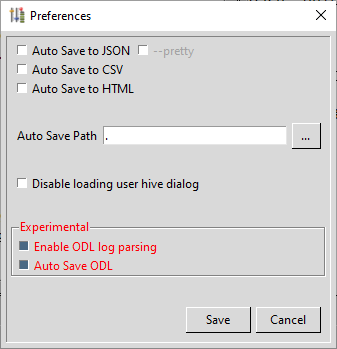
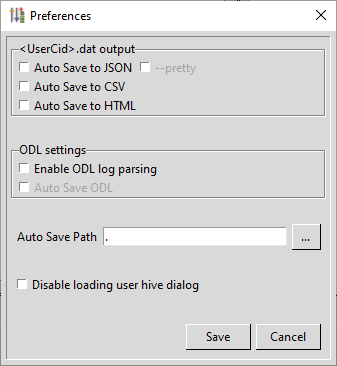
Add files via upload

diff --git a/Docs/OneDriveExplorerManual.md b/Docs/OneDriveExplorerManual.md
@@ -1,9 +1,10 @@
-# OneDriveExplorer GUI
+# OneDriveExplorer
 
 ![](.\manual\ode.png)
 
 Revision history  
-date Rev. 1 - Initial Release
+2022-11-08 Rev. 1 - Initial Release  
+2022-12-07 Rev. 2 - Updated for v2022.12.08
 
 ## OneDriveExplorer GUI Introduction
 OneDriveExplorer GUI is used to view the contents of \<UserCid>.dat files. It can load multiple settings, logs, and $Recycle.bin files at once. Search across all settings files, view OneDrive logs and much more.
@@ -63,7 +64,7 @@ The Options menu contains items for the look and feel and preferences of OneDriv
 
 ![](.\manual\options_menu.png)
 
-* Font: Change the font type, style and size. Applies to the Details, Log entries, and Log tabs.
+* Font: Change the font type, style, and size. Applies to the Details, Log entries, and Log tabs.
 * Skins: Change the overall look of OneDriveExplorer.
 * Preferences: Program options such as auto save, disabling the user hive dialog, and ODL settings.  
 
@@ -72,8 +73,11 @@ The Preferences dialog allows you to change various OneDriveExplorer settings as
 ![](.\manual\preferences.png)
 
 #### View
-The View menu contains one option, Messages.
+The View menu contains two options: Messages and CStructs.
 
+![](.\manual\view.png)
+
+##### Messages
 Messages toggles the visibility of the Messages window. The messages window displays status messages on the parsing process. The total number of messages is also shown on the main window's bottom status bar to the far right. Double clicking the message count will also show the Messages window.
 
 ![](.\manual\messages.png)
@@ -82,6 +86,9 @@ As mentioned above, the background of the messages count will be yellow if a war
 The Messages window contains two options. One for clearing the messages and the other to export the messages. Exporting the messages can be useful for troubleshooting the application.
 
 ![](.\manual\messages_number.png)
+
+##### CStructs
+The CStructs option displays a list of available cstructs for a given code file. Details include author, functions, and description. CStructs will be discussed in more detail in a dedicated section of this manual.
 
 #### Help
 The help menu contains two options: Quick help and About.
@@ -122,7 +129,15 @@ Import CSV allows for loading a previously saved CSV file from the command line 
 
 #### OneDrive logs
 *Note: This option is only available if enabled in the Preferences dialog.  
-Use this option to load OneDrive log files. The default location is *%USERPROFILE%\\%AppData%\Local\Microsoft\OneDrive\logs\\<Personal\Business>*. If the *ObfuscationStringMap.txt* file is found, it will be used to automatically deobfuscate the logs. There is another form of obfuscation that uses *general.keystor* but this has not been implemented yet. OneDrive logs will be discussed later.
+OneDrive logs contains two options for loading ODL data: Load ODL logs and Import csv. OneDrive logs will be discussed later. 
+
+![](.\manual\odlogs.png)
+
+##### Load ODL logs
+Use this option to load OneDrive log files. The default location is *%USERPROFILE%\\%AppData%\Local\Microsoft\OneDrive\logs\\<Personal\Business>*. If the *ObfuscationStringMap.txt* or *general.keystor* file is found, it will be used to automatically deobfuscate the logs.
+
+##### Import CSV
+Import CSV allows for loading a previously saved CSV file from the command line or GUI application.
 
 #### Projects
 Projects allow you to load one or more \<UserCid>.dat and log files; save the currently loaded \<UserCid>.dat and log files. This allows for quickly loading the same \<UserCid>.dat and log files for a particular case versus loading the files individually. Projects are saved with a *.ode_proj* extension.
@@ -172,54 +187,277 @@ From the OneDrive Folders tab, selecting a file/folder will populate the Log Ent
 
 ![](.\manual\logs2.png)
 
+### CStructs
+cstruct files provide a means to better parse ODL entries. The parameters of ODL entries consist of structured binary data and are parsed with a regex looking for ascii characters. cstruct files give us a means to define the structured data and extract it accordingly.
+
+CStructs live under the main OneDriveExplorer directory in a subdirectory called 'cstructs'. If you would like to load cstruct files from a different directory, use the --cstructs switch when starting OneDriveExplorer
+
+> OneDriveExplorer.exe --cstructs <folder_path>
+
+When OneDriveExplorer is started, it looks for all files matching that pattern in the cstructs folder. It then verifies that each file found is a valid cstruct file. IF it is, the cstruct is made available to OneDriveExplorer.
+
+To view all available cstructs, use the View | CStructs menu option. When this is selected the following dialog is displayed:
+
+![](.\manual\cstructs.png)
+
+To get additional details about the cstruct, click the Add'l Info button. The following dialog will be displayed:
+
+![](.\manual\add_info.png)
+
 # OneDriveExplorer
 ## OneDriveExplorer Introduction
 OneDriveExplorer is a tool used to parse \<UserCid\>.dat files and reconstruct the folder structure of OneDrive. \<UserCid\>.dat files are commonly found at %USERPROFILE%\\%AppData%\Local\Microsoft\OneDrive\settings\\<Personal\Business>
 
-## OneDriveExplorer Switches
+## Getting started
 
-In a command prompt, running OneDriveExplorer.exe will provide the following options:
+Running OneDriveExplorer.exe without any arguments displays a list of command line options:
 
 ```
 usage: OneDriveExplorer.py [-h] [-f FILE] [-d DIR] [-r REGHIVE] [-rb RECYCLE_BIN] [--csv CSV] [--csvf CSVF]
-                           [--html HTML] [--json JSON] [--pretty] [--debug] [-l [LOGS]]
+                           [--html HTML] [--json JSON] [--pretty] [--cstructs CSTRUCTS] [--debug] [-l [LOGS]]
 
-options:  
-  -h, --help            show this help message and exit  
-  -f FILE, --file FILE  <UserCid>.dat file to be parsed  
-  -d DIR, --dir DIR     Directory to recursively process, looking for <UserCid>.dat, NTUSER hive, $Recycle.Bin, and  
-                        ODL logs. This mode is primarily used with KAPE.  
-  -r REGHIVE, --REG_HIVE REGHIVE  
-                        If a registry hive is provided, then the mount points of the SyncEngines will be resolved.  
-  -rb RECYCLE_BIN, --RECYCLE_BIN RECYCLE_BIN  
-                        $Recycle.Bin  
-  --csv CSV             Directory to save CSV formatted results to. Be sure to include the full path in double quotes.  
-  --csvf CSVF           File name to save CSV formatted results to. When present, overrides default name.  
-  --html HTML           Directory to save html formatted results to. Be sure to include the full path in double  
-                        quotes.  
-  --json JSON           Directory to save json representation to. Use --pretty for a more human readable layout.  
-  --pretty              When exporting to json, use a more human readable layout. Default is FALSE  
-  --debug               Show debug information during processing.  
-  -l [LOGS], --logs [LOGS]  
-                        Directory to recursively process for ODL logs. Experimental.  
+options:
+  -h, --help            show this help message and exit
+  -f FILE, --file  <UserCid>.dat file to be parsed
+  -d DIR, --dir DIR     Directory to recursively process, looking for <UserCid>.dat, NTUSER hive, $Recycle.Bin, and
+                        ODL logs. This mode is primarily used with KAPE.
+  -r REGHIVE, --REG_HIVE REGHIVE
+                        If a registry hive is provided, then the mount points of the SyncEngines will be resolved.
+  -rb RECYCLE_BIN, --RECYCLE_BIN RECYCLE_BIN
+                        $Recycle.Bin
+  --csv CSV             Directory to save CSV formatted results to. Be sure to include the full path in double quotes.
+  --csvf CSVF           File name to save CSV formatted results to. When present, overrides default name.
+  --html HTML           Directory to save html formatted results to. Be sure to include the full path in double
+                        quotes.
+  --json JSON           Directory to save json representation to. Use --pretty for a more human readable layout.
+  --pretty              When exporting to json, use a more human readable layout. Default is FALSE
+  --cstructs CSTRUCTS   The path where ODL cstructs are located. Defaults to 'cstructs' folder where program was
+                        executed.
+  --debug               Show debug information during processing.
+  -l [LOGS], --logs [LOGS]
+                        Directory to recursively process for ODL logs.  
   ```
   
-### Switch Descriptions
+There are several groups of command line options for OneDriveExplorer.
+
+### Source
   
-**-r**  
-This switch will instruct OneDriveExplorer to use the registry hive supplied to resolve OneDrive mount points.  
-Example: 
->OneDriveExplorer.exe -f \<file> -r NTUSER.dat  
+* **-f**: Full path, including \<UserCid>.dat, of \<UserCid>.dat file to be parse
 
-**-rb**  
-This switch will instruct OneDriveExplorer to use the $Recycle.Bin supplied to look for deleted files. This switch can only be used when a registry hive is supplied.  
-Example:
->OneDriveExplorer.exe -f \<file> -r NTUSER.dat -rb c:\\$Recycle.Bin
+* **-d**: Directory to recursively process, looking for <UserCid>.dat, NTUSER hive, $Recycle.Bin, and ODL logs. This mode is primarily used with KAPE.
 
-## OneDriveExplorer Command Examples
-### Example OneDriveExplorer Commands
+* **-r**: This switch will instruct OneDriveExplorer to use the registry hive supplied to resolve OneDrive mount points.  
+ 
+* **-rb**: This switch will instruct OneDriveExplorer to use the $Recycle.Bin supplied to look for deleted files. This switch can only be used when a registry hive is supplied.  
 
-## OneDriveExplorer Output
-### Analyzing OneDriveExplorer Output - CSV
+* **-l**: Directory to recursively process for ODL logs.
 
-# OneDriveExplorer cstruct "mapping" files
+### Output
+
+* **--csv**: Directory to save CSV formatted results to. Be sure to include the full path in double quotes.
+
+* **--csvf**: File name to save CSV formatted results to. When present, overrides default name
+
+* **--html**: Directory to save html formatted results to. Be sure to include the full path in double quotes.
+
+* **--json**: Directory to save json representation to. Use --pretty for a more human readable layout.
+
+* **--pretty**: When exporting to json, use a more human readable layout. Default is FALSE
+
+### Other
+
+* **--cstructs**: The path where ODL cstructs are located. Defaults to 'cstructs' folder where program was executed.
+
+* **--debug**: Show debug information during processing.
+
+### Usage
+To use OneDriveExplorer, simply provide the `.\<UserCid>.dat` file to the `-f` argument
+
+```bash
+OneDriveExplorer.py -f business1\d1a7c039-6175-4ddb-bcdb-a8de45cf1678.dat
+```
+
+Depending on the options, OneDriveExplorer can produce JSON, CSV, or HTML files of the parsed data. The `--pretty` option can be used to output the JSON into a more human readable layout.
+
+A user registry hive can be supplied with the `-r` argument. This will resolve some of the mount points associated with OneDrive. Along with the registry hive, $Recycle.Bin can be added with the `-rb` option to look for deleted files.
+
+# Creating CStructs
+
+# Version changes
+## v2022.12.08
+### Added
+#### commandline/GUI
+* Account for all business accounts (can be up to 9 total)
+* Add switch to change cstruct directory
+* Validate cstruct files
+#### GUI
+* Added tooltips
+* Import ODL from csv
+* Validates ode.settings file (no need to delete on new update)
+### Fixed
+#### commandline
+* Fixed json error
+#### GUI
+* Fixed json import error
+* Error handling for importing bad csv's
+## v2022.11.08
+### Added
+#### commandline/GUI
+* Support unobfuscation with `general.keystore` file
+## v2022.11.04
+### Added
+#### commandline/GUI
+* Use ObfuscationStringMap.txt if present
+* ODL maps
+#### GUI
+* Indicator for saving log files 
+* Cell pop out
+* Log entries pane
+* Export treeview to png, pdf
+### Fixed
+#### commandline/GUI
+* Find all deleted files for business
+#### GUI
+* Fixed freezing in message window
+* Better column sizing
+## v2022.06.17
+### Added
+#### commandline/GUI
+* Find deleted files
+* SHA1 of deleted file for OneDrive personal
+* quickxorhash of deleted file for OneDrive business
+* ODL logs (experimental)
+#### GUI
+* Highlight on right click in treeview
+* Removed empty values from Details pane
+* Parse live system
+* File/Folder count columns
+* Projects
+### Fixed
+#### GUI
+* Minimum width on slider left/right
+* Bug fixes
+## v2022.05.18
+### Fixed
+* Update to OneDrive broke parsing
+## v2022.04.06
+### Added
+#### commandline/GUI
+* New parsing method
+* Unicode support for names
+* quicXorHash/SHA1 of file
+### Fixed
+#### GUI
+* Search not working properly if file is removed
+* Unable to save a csv or html
+## v2022.03.11-r1
+### Added
+#### commandline
+* -d option for using with KAPE
+## v2022.03.11
+### Added
+#### commandline/GUI
+* Added path in JSON
+#### GUI
+* Unload all folders changed to Unload all files
+* Enabled Details pane to allow for copy/paste of information
+* Path in Details pane
+* Disable collapse folders when there are no folders to collapse
+* Files/Folders alphabetical order
+* Indication if search term is not found
+* Progress bar on exe splash screen
+* file/folder count when parsing JSON
+* Copy Menu
+  * Copy Name
+  * Copy Path
+  * Copy Details
+### Fixed
+* Changed buffer to prevent names from getting cut off
+* Fixed paths to be Windows paths \ vs /
+## v2022.03.04
+### Added
+#### commandline
+* --debug argument
+#### GUI
+* Debug messages
+### Fixed
+* Freezing on Import JSON/CSV
+* Menus and Find were not disabled during Load JSON
+* Handle error if Name is not found
+## v2022.03.02
+### Added
+#### commandline/GUI
+* Registry hive option
+* File size information
+#### GUI
+* Disable hive dialog in Preferences
+### Fixed
+* Error in file/folder count that could cause the GUI to freeze
+* Disabled Find unless something is loaded
+* --pretty changed to check box in Preferences
+* Set minimum size on GUI
+## v2022.02.23
+### Added
+#### commandline/GUI
+* Shared folders added to JSON
+#### GUI
+* Options menu
+  * Save to JSON
+  * Save to CSV
+  * Save to HTML
+  * Save to path
+* Splash screen to executable
+* More icons
+## v2022.02.18
+### Added
+#### commandline
+* Export to csv
+* Export to html
+#### GUI
+* Import csv
+* Horizontal scrollbar on treeview
+* icons
+* Requires Pillow
+### Fixed
+* Bug where one folder and its contents would get dropped
+* File/folder count
+## v2022.02.16
+### Added
+* Requires pandas
+### Fixed
+* Folder_UUID is now ParentId
+* Object_UUID is now DriveItemId
+* Names not resolving properly
+* Huge performance increase to parser
+## v2022.02.11
+### Added
+#### GUI
+* Autosaves parsed data to JSON
+* Load multiple dat/json
+* Added load JSON
+* Unload of individual or all files
+* Better ordering of folder structure 
+* Right click menu
+  * Remove folder
+  * Copy
+  * Expand folder
+  * Collapse folder
+#### cmdline/GUI
+* Top level object, Type changed to Root, Name changed to name of parsed file
+* Default JSON file name changed from OneDrive.json to \<filename>_OneDrive.json
+### Fixed
+* Minor code cleanup
+## v2022.02.09
+### Added
+* Added search to the GUI
+### Fixed
+* Can load new file in GUI without closing
+* Improved personal file parsing
+* Handle exception if object name cannot be found
+## v2022.02.08
+### Added
+* Added support for OneDrive Personal dat files
+### Fixed
+* Missing files/folders
+## v2022.02.03
+### Initial Release
